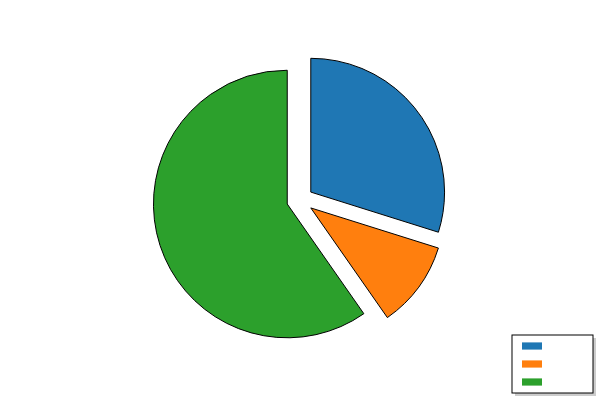
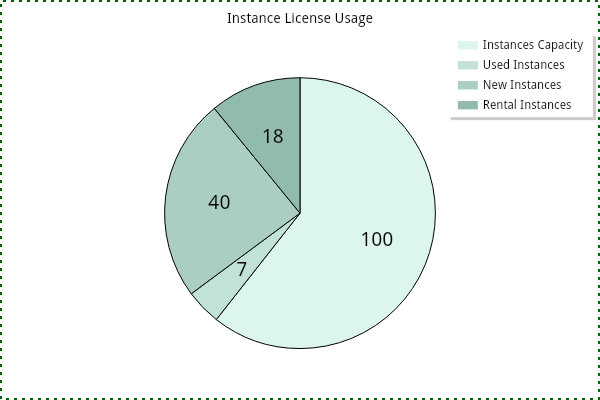
Improved code

diff --git a/PieChart.cs b/PieChart.cs
@@ -2,32 +2,31 @@
 using ScottPlot;
 namespace AsBuiltReportChart;
 
-public class Chart
+public class Pie : Chart
 {
-    public static bool? EnableLegend { get; set; }
-    public static string? Title { get; set; }
-
-    public static void PieChart(double[] values, string[] labels, string filename = "output", int width = 400, int height = 300, string format = "png")
+    public static void Chart(double[] values, string[] labels, string filename = "output", int width = 400, int height = 300, string format = "png")
     {
-        if (values.Count() == labels.Count())
+        if (values.Length == labels.Length)
         {
             Plot myPlot = new();
 
-            bool checkEnableLegend = EnableLegend ?? false;
+            // myPlot.Add.Palette = new ScottPlot.Palettes.DarkPastel();
+            string[] customColors = { "#ddf6ed", "#c3e2d7", "#aacec2", "#90bbad", "#77a898", "#5e9584", "#458370", "#2a715d", "#005f4b" };
+            myPlot.Add.Palette = new ScottPlot.Palettes.Custom(customColors);
 
             var pie = myPlot.Add.Pie(values);
-            pie.ExplodeFraction = .1;
-            pie.SliceLabelDistance = 0.5;
+            // pie.ExplodeFraction = .1;
+            pie.SliceLabelDistance = _labelDistance;
 
             // set each slice value to its label
             for (int i = 0; i < pie.Slices.Count; i++)
             {
-                pie.Slices[i].LabelText = labels[i];
-                pie.Slices[i].LabelFontSize = 20;
-                pie.Slices[i].LabelBold = true;
-                pie.Slices[i].LabelFontColor = Colors.Magenta;
+                pie.Slices[i].LabelText = values[i].ToString();
+                pie.Slices[i].LabelFontSize = LabelFontSize;
+                pie.Slices[i].LabelFontColor = LabelFontColor;
+                pie.Slices[i].LabelBold = LabelBold;
 
-                if (checkEnableLegend)
+                if (EnableLegend)
                 {
                     pie.Slices[i].LegendText = labels[i];
                 }
@@ -37,14 +36,71 @@ public class Chart
             myPlot.Axes.Frameless();
             myPlot.HideGrid();
 
-            // set title
+            if (EnableLegend)
+            {
+                // Legend box Style Properties
+                myPlot.Legend.OutlineColor = LegendBorderColor;
+                myPlot.Legend.OutlineWidth = LegendBorderSize;
+
+                myPlot.Legend.OutlinePattern = legendborderstyle = LegendBorderStyle switch
+                {
+                    BorderStyle.Solid => ScottPlot.LinePattern.Solid,
+                    BorderStyle.Dashed => ScottPlot.LinePattern.Dashed,
+                    BorderStyle.Dotted => ScottPlot.LinePattern.Dotted,
+                    BorderStyle.DenselyDashed => ScottPlot.LinePattern.DenselyDashed,
+                    _ => ScottPlot.LinePattern.Solid,
+                };
+
+                myPlot.Legend.Orientation = legendOriantation = LegendOriantation switch
+                {
+                    Orientation.Horizontal => ScottPlot.Orientation.Horizontal,
+                    Orientation.Vertical => ScottPlot.Orientation.Vertical,
+                    _ => ScottPlot.Orientation.Vertical,
+                };
+
+                myPlot.Legend.Alignment = legendAlignment = LegendAlignment switch
+                {
+                    Alignment.LowerCenter => ScottPlot.Alignment.LowerCenter,
+                    Alignment.LowerLeft => ScottPlot.Alignment.LowerLeft,
+                    Alignment.LowerRight => ScottPlot.Alignment.LowerRight,
+                    Alignment.MiddleCenter => ScottPlot.Alignment.MiddleCenter,
+                    Alignment.MiddleLeft => ScottPlot.Alignment.MiddleLeft,
+                    Alignment.MiddleRight => ScottPlot.Alignment.MiddleRight,
+                    Alignment.UpperCenter => ScottPlot.Alignment.UpperCenter,
+                    Alignment.UpperLeft => ScottPlot.Alignment.UpperLeft,
+                    Alignment.UpperRight => ScottPlot.Alignment.UpperRight,
+                    _ => ScottPlot.Alignment.LowerRight,
+                };
+            }
+
+            if (EnableChartBorder)
+            {
+                myPlot.FigureBorder = new()
+                {
+                    Color = ChartBorderColor,
+                    Width = ChartBorderSize,
+                    Pattern = chartborderstyle = ChartBorderStyle switch
+                    {
+                        BorderStyle.Solid => ScottPlot.LinePattern.Solid,
+                        BorderStyle.Dashed => ScottPlot.LinePattern.Dashed,
+                        BorderStyle.Dotted => ScottPlot.LinePattern.Dotted,
+                        BorderStyle.DenselyDashed => ScottPlot.LinePattern.DenselyDashed,
+                        _ => ScottPlot.LinePattern.Solid,
+                    },
+                };
+            }
+
+            // Set title properties
             if (Title != null)
             {
                 myPlot.Title(Title);
+                myPlot.Axes.Title.Label.FontSize = TitleFontSize;
+                myPlot.Axes.Title.Label.ForeColor = TitleFontColor ;
+                myPlot.Axes.Title.Label.Bold = TitleFontBold;
             }
 
-            // set filename
-            myPlot.SavePng(filename + ".png", width, height);
+            // Set filename
+            myPlot.SavePng(filename + "." + format, width, height);
         }
         else
         {

diff --git a/Charts.cs b/Charts.cs
@@ -1,0 +1,56 @@
+using HarfBuzzSharp;
+using ScottPlot;
+namespace AsBuiltReportChart;
+
+public class Chart
+{
+    // Title setting
+    public static string? Title { get; set; }
+    public static bool TitleFontBold { get; set; } = false;
+    public static int TitleFontSize { get; set; } = 14;
+    public static Color TitleFontColor { get; set; } = Colors.Black;
+
+    // Font settings
+    public static int LabelFontSize { get; set; } = 14;
+    internal static double _labelDistance = 0.6;
+    public static double LabelDistance
+    {
+        get { return _labelDistance; }
+        set
+        {
+            if (value >= 0.5 && value <= 0.9)
+            {
+                _labelDistance = value;
+            }
+            else
+            {
+                throw new ArgumentException("Error: LabelDistance value rage must be from 0.5 to 0.9.");
+            }
+        }
+    }
+    public static Color LabelFontColor { get; set; } = Colors.Black;
+    public static bool LabelBold { get; set; } = false;
+
+    // Legend setting
+    public static bool EnableLegend { get; set; } = false;
+    // Legend boder settings
+    internal static ScottPlot.LinePattern legendborderstyle;
+    public static BorderStyle LegendBorderStyle { get; set; } = BorderStyle.Solid;
+    public static int LegendBorderSize { get; set; } = 1;
+    public static Color LegendBorderColor { get; set; } = Colors.Black; // Todo chage this to rgb color
+    internal static ScottPlot.Orientation legendOriantation;
+    public static Orientation LegendOriantation { get; set; } = Orientation.Vertical;
+    internal static ScottPlot.Alignment legendAlignment;
+    public static Alignment LegendAlignment { get; set; } = Alignment.LowerRight;
+
+    // Chart boder settings
+    public static bool EnableChartBorder { get; set; } = false;
+    internal static ScottPlot.LinePattern chartborderstyle;
+    public static BorderStyle ChartBorderStyle { get; set; }
+    public static int ChartBorderSize { get; set; } = 1;
+    public static Color ChartBorderColor { get; set; } = Colors.Black;  // Todo chage this to rgb color
+
+    // Color Pallete settings
+
+    
+}

diff --git a/AsBuiltReportChart.cs b/AsBuiltReportChart.cs
@@ -6,13 +6,26 @@ namespace AsBuiltReportChart
     {
         public static void Main(string[] args)
         {
-            double[] values = [20,7, 40];
-            string[] labels = ["cpu", "mem", "hdd"];
+
+            Count.CountDown();
+            
+            double[] values = [100, 7, 40, 18];
+            string[] labels = ["Instances Capacity", "Used Instances", "New Instances", "Rental Instances"];
 
             Chart.EnableLegend = true;
-            // Chart.Title = "Caca";
+            Chart.Title = "Instance License Usage";
+            Chart.LabelBold = false;
+            Chart.LabelFontSize = 20;
+            Chart.ChartBorderStyle = BorderStyle.Dotted;
+            Chart.ChartBorderColor = ScottPlot.Color.FromColor(System.Drawing.Color.DarkGreen);
+             Chart.ChartBorderSize = 2;
+            Chart.EnableChartBorder = true;
+            Chart.LegendOriantation = Orientation.Vertical;
+            Chart.LegendAlignment = Alignment.UpperRight;
+            Chart.LegendBorderSize = 0;
+            Chart.LabelDistance = 0.6;
 
-            Chart.PieChart(values, labels, width:600,height:400);
+            Pie.Chart(values, labels, width: 600, height: 400);
         }
 
     }

diff --git a/Enums/Enums.cs b/Enums/Enums.cs
@@ -1,0 +1,33 @@
+using HarfBuzzSharp;
+using ScottPlot;
+namespace AsBuiltReportChart
+{
+    public enum BorderStyle
+    {
+        Solid,
+        Dashed,
+        Dotted,
+        DenselyDashed
+    }
+
+    public enum Orientation
+    {
+        Horizontal,
+        Vertical
+    }
+
+    public enum Alignment
+    {
+        LowerCenter,
+        LowerLeft,
+        LowerRight,
+        MiddleCenter,
+        MiddleLeft,
+        MiddleRight,
+        UpperCenter,
+        UpperLeft,
+        UpperRight
+    }
+
+
+}

diff --git a/Todo.md b/Todo.md
@@ -1,0 +1,24 @@
+- [ ] Add chart boder option
+    - [x] Border color
+    - [x]  Border width
+    - [x]  Border line style (solid, dashed etc)
+
+- [ ]  Add legend
+    - [ ]  Legend position (Top, Down, Edge)
+    - [ ] legend orientation (Vertical, Horizontal)
+    - [x] legend font properties
+    - [x] legend box line properties (No Line)
+
+- [ ] Custom Color pallete
+
+```c#
+string[] customColors = { "#ddf6ed", "#c3e2d7", "#aacec2", "#90bbad", "#77a898" , "#5e9584", "#458370", "#2a715d", "#005f4b"};
+plt.Palette = new ScottPlot.Drawing.Palette(customColors);
+
+for (int i = 0; i < 5; i++)
+{
+    double[] xs = DataGen.Consecutive(100);
+    double[] ys = DataGen.Sin(100, phase: -i * .5 / 5);
+    plt.AddScatterLines(xs, ys, lineWidth: 3);
+}
+```
